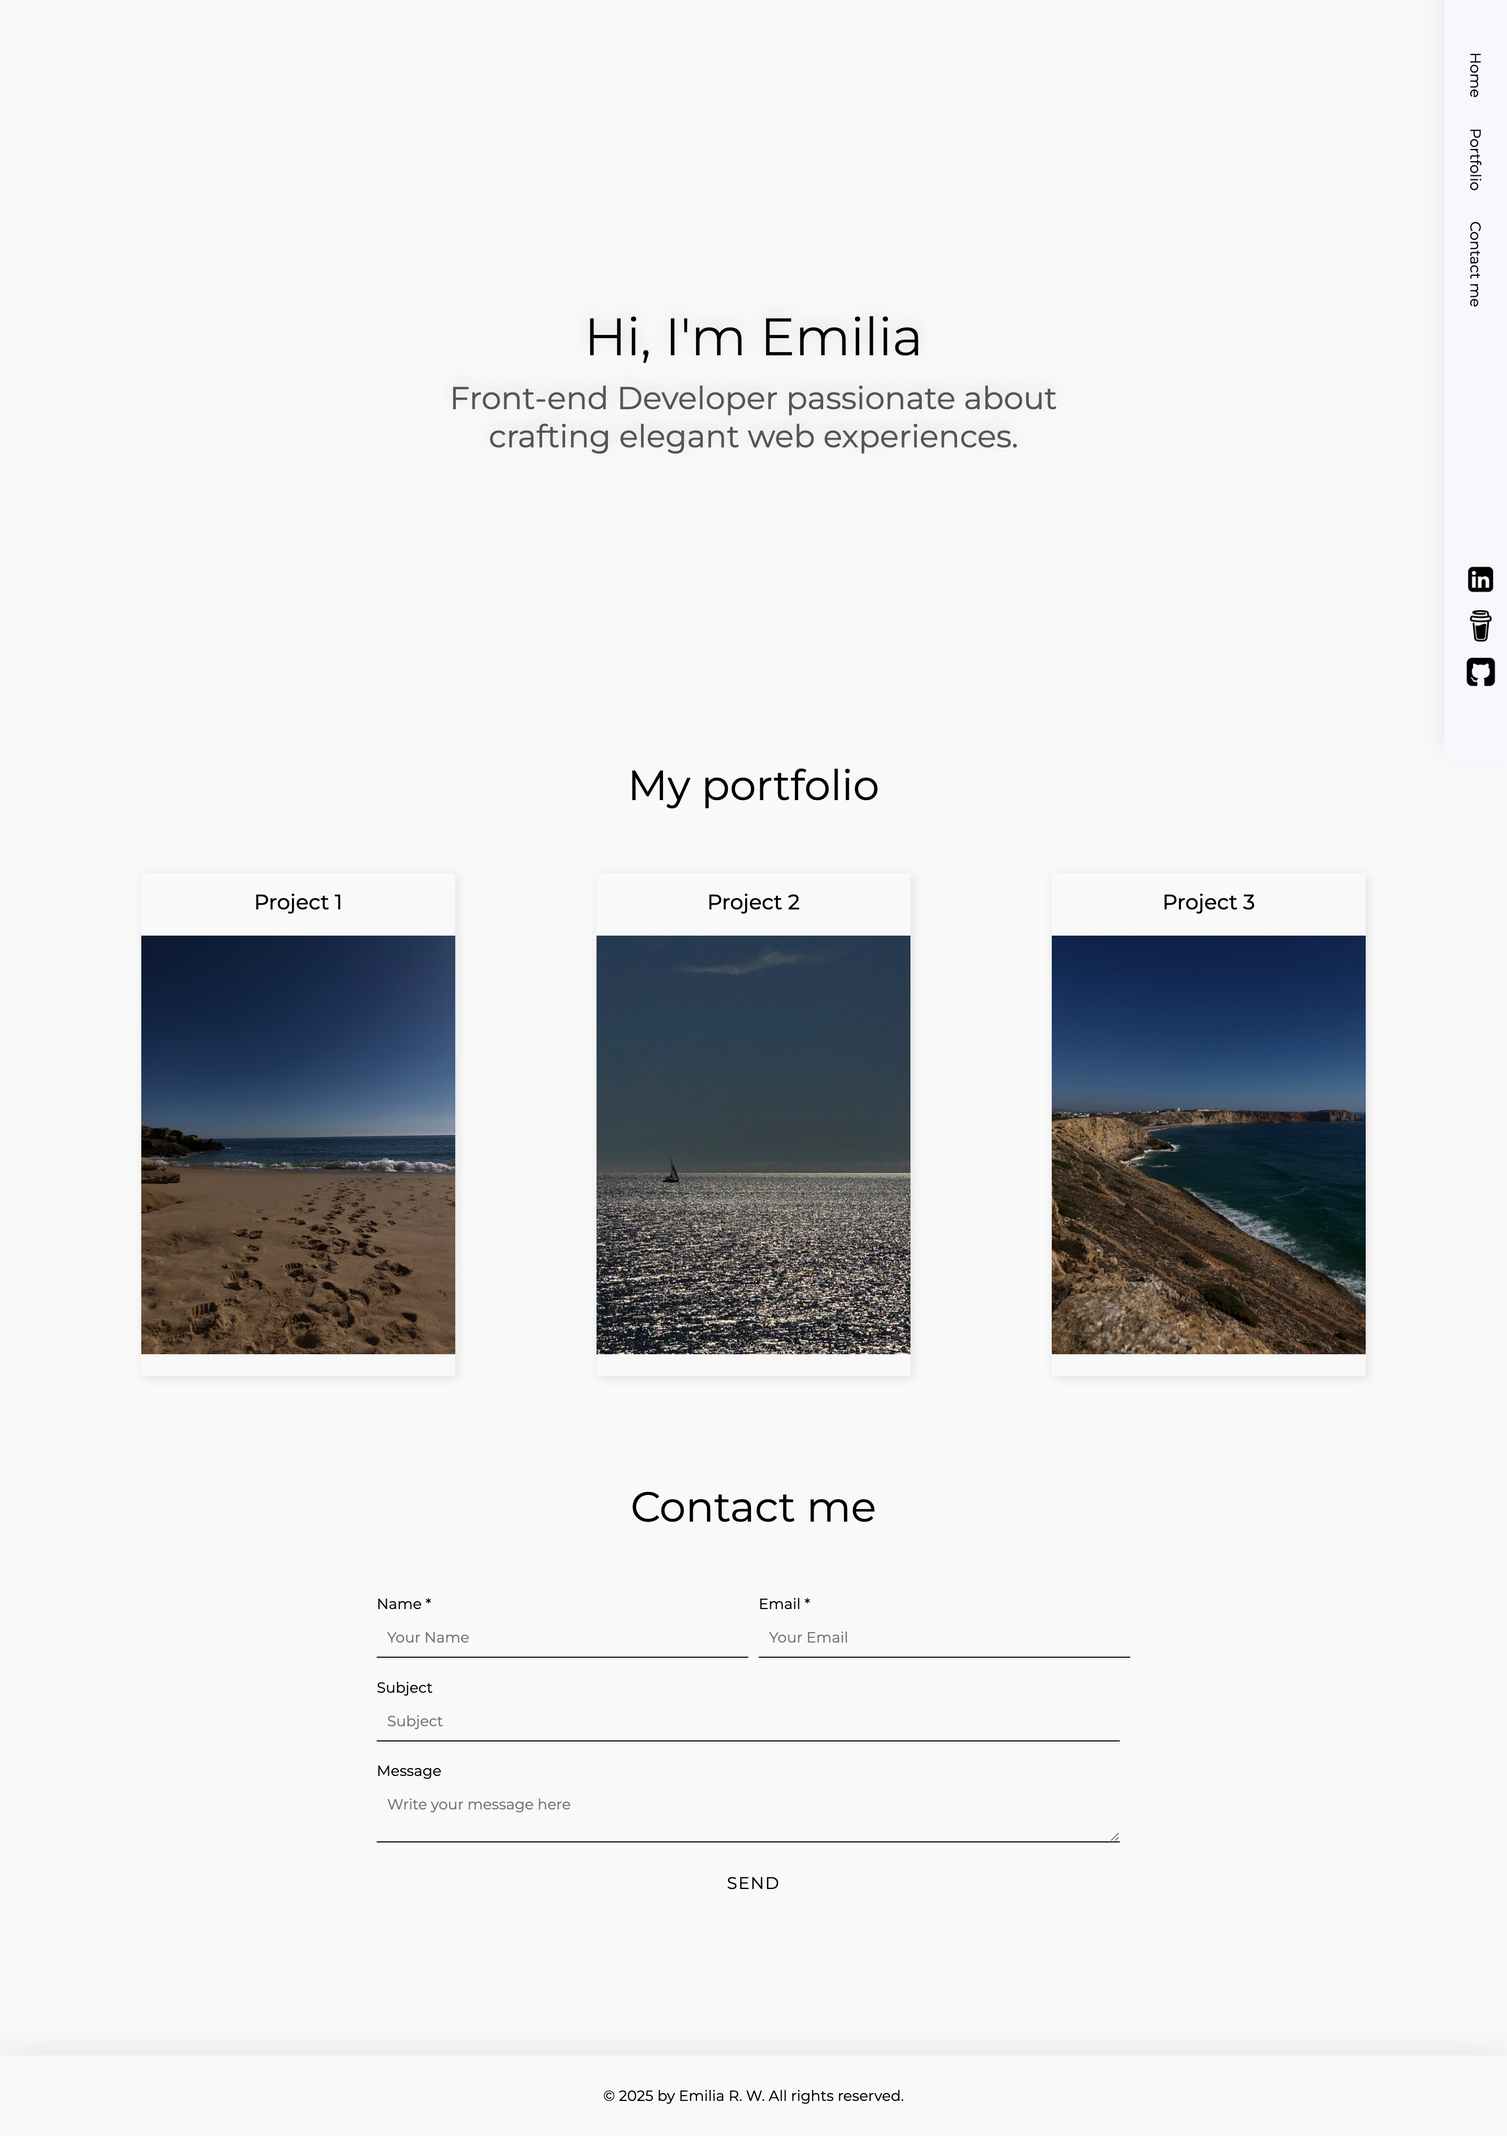
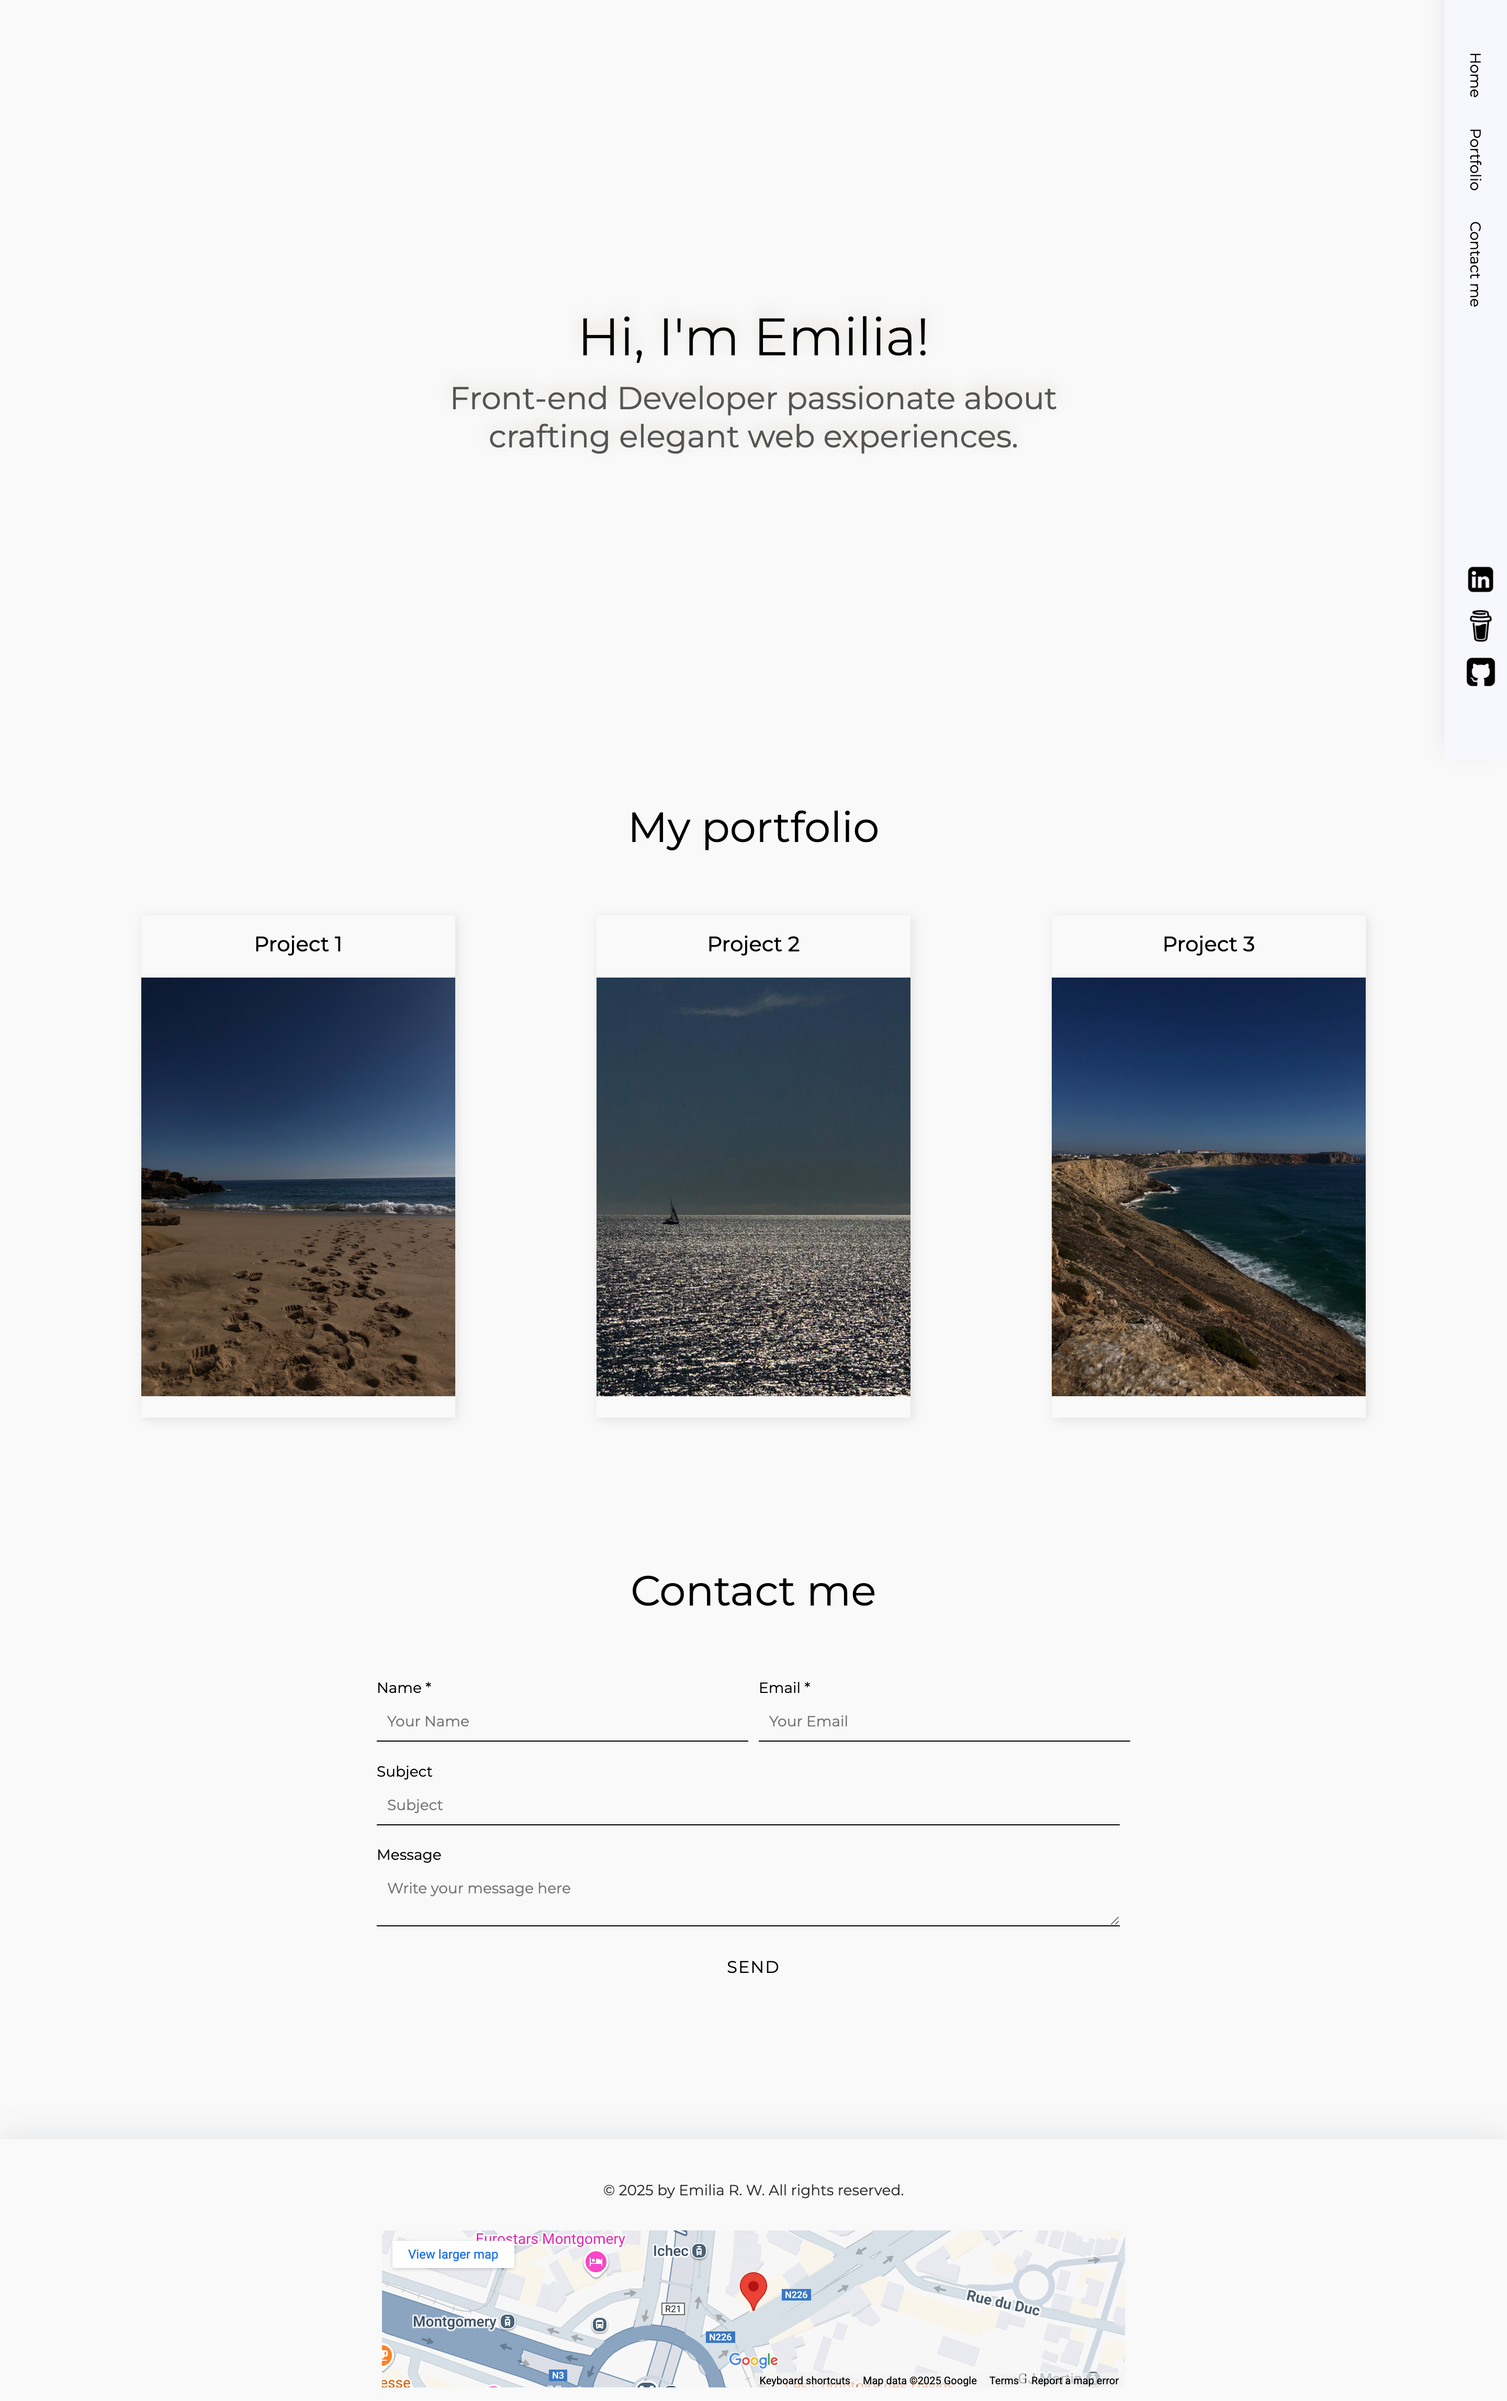
added README

diff --git a/index.html b/index.html
@@ -97,13 +97,11 @@
   <!-- Footer -->
   <div class="footer">
     <p class="footer-text">© 2025 by Emilia R. W. All rights reserved.</p>
-    <div style="width: 100%"><iframe width="50%" height="60%" frameborder="0" scrolling="no" marginheight="0"
-        marginwidth="0"
-        src="https://maps.google.com/maps?width=100%25&amp;height=600&amp;hl=en&amp;q=Av.%20de%20Tervueren%20142,%201150%20Woluwe-Saint-Pierre+(HYF)&amp;t=p&amp;z=17&amp;ie=UTF8&amp;iwloc=B&amp;output=embed"><a
-          href="https://www.gps.ie/">real-time gps tracking</a></iframe></div>
+    <div class="frame">
+      <iframe title="map" width="50%" height="60%"
+        src="https://maps.google.com/maps?width=100%25&amp;height=600&amp;hl=en&amp;q=Av.%20de%20Tervueren%20142,%201150%20Woluwe-Saint-Pierre,%20Belgium+(HYF)&amp;t=p&amp;z=16&amp;ie=UTF8&amp;iwloc=B&amp;output=embed"></iframe>
+    </div>
   </div>
-
-
 </body>
 
 </html>

diff --git a/styles/index.css b/styles/index.css
@@ -289,6 +289,9 @@ textarea:focus {
 
 .frame {
   transition: 0.3s ease-in-out;
+  width: 100%;
+  border: none;
+  margin-bottom: 20px;
 }
 
 .frame-div {
@@ -297,5 +300,8 @@ textarea:focus {
 
 .frame:hover {
   transition: 0.3s ease-in-out;
-  transform: scale(1.3);
+  transform: scale(1.1);
+}
+
+.map {
 }

diff --git a/README.md b/README.md
@@ -10,7 +10,6 @@
   - [Setup](#setup)
   - [Code Examples](#code-examples)
   - [Status](#status)
-  - [Inspiration](#inspiration)
   - [Contact](#contact)
   - [Instructions for use](#instructions-for-use)
   - [Code Quality Checks](#code-quality-checks)
@@ -23,7 +22,7 @@ My portfolio!
 
 ## Screenshots
 
-![Example screenshot](./planning/screenshot.jpg)
+![Example screenshot](./planning/images/design.png)
 
 ## Technologies
 
@@ -38,22 +37,25 @@ My portfolio!
 
 ## Code Examples
 
-```js
-// the hello world program
-console.log("Hello World");
+```html
+<div class="sidebar">
+  <nav>
+    <ul class="menu">
+      <li><a href="#home">Home</a></li>
+      <li><a href="#portfolio">Portfolio</a></li>
+      <li><a href="#contact-me">Contact me</a></li>
+    </ul>
+  </nav>
+</div>
 ```
 
 ## Status
 
-Project is: _in progress_
-
-## Inspiration
-
-Project by freeCodeCamp.org
+Project is: _completed_
 
 ## Contact
 
-By [Emilia](https://github.com/emilia-12)
+[Emilia](https://github.com/emilia-12)
 
 ## Instructions for use
 

diff --git a/planning/backlog.md b/planning/backlog.md
@@ -5,16 +5,16 @@
 ## Must-Haves
 
 - As a user I want to see a `main` section with your name so that I can
-      understand who is the page about.
+  understand who is the page about.
 
 - As a user I want to see a `sidebar` with the menu and social links, so that I
-      can navigate through the page and follow you on social media.
+  can navigate through the page and follow you on social media.
 
-- As a user I want to see a `portfolio` section with your works, so that I
-      can see the projects you have done.
+- As a user I want to see a `portfolio` section with your works, so that I can
+  see the projects you have done.
 
 - As a user I want to see a `contact me` section so that I can contact you in
-      case I have questions or suggestions.
+  case I have questions or suggestions.
 
-- As a user I want to see a `footer` section so that I can understand this
-  is the end of the page.
+- As a user I want to see a `footer` section so that I can understand this is
+  the end of the page.
